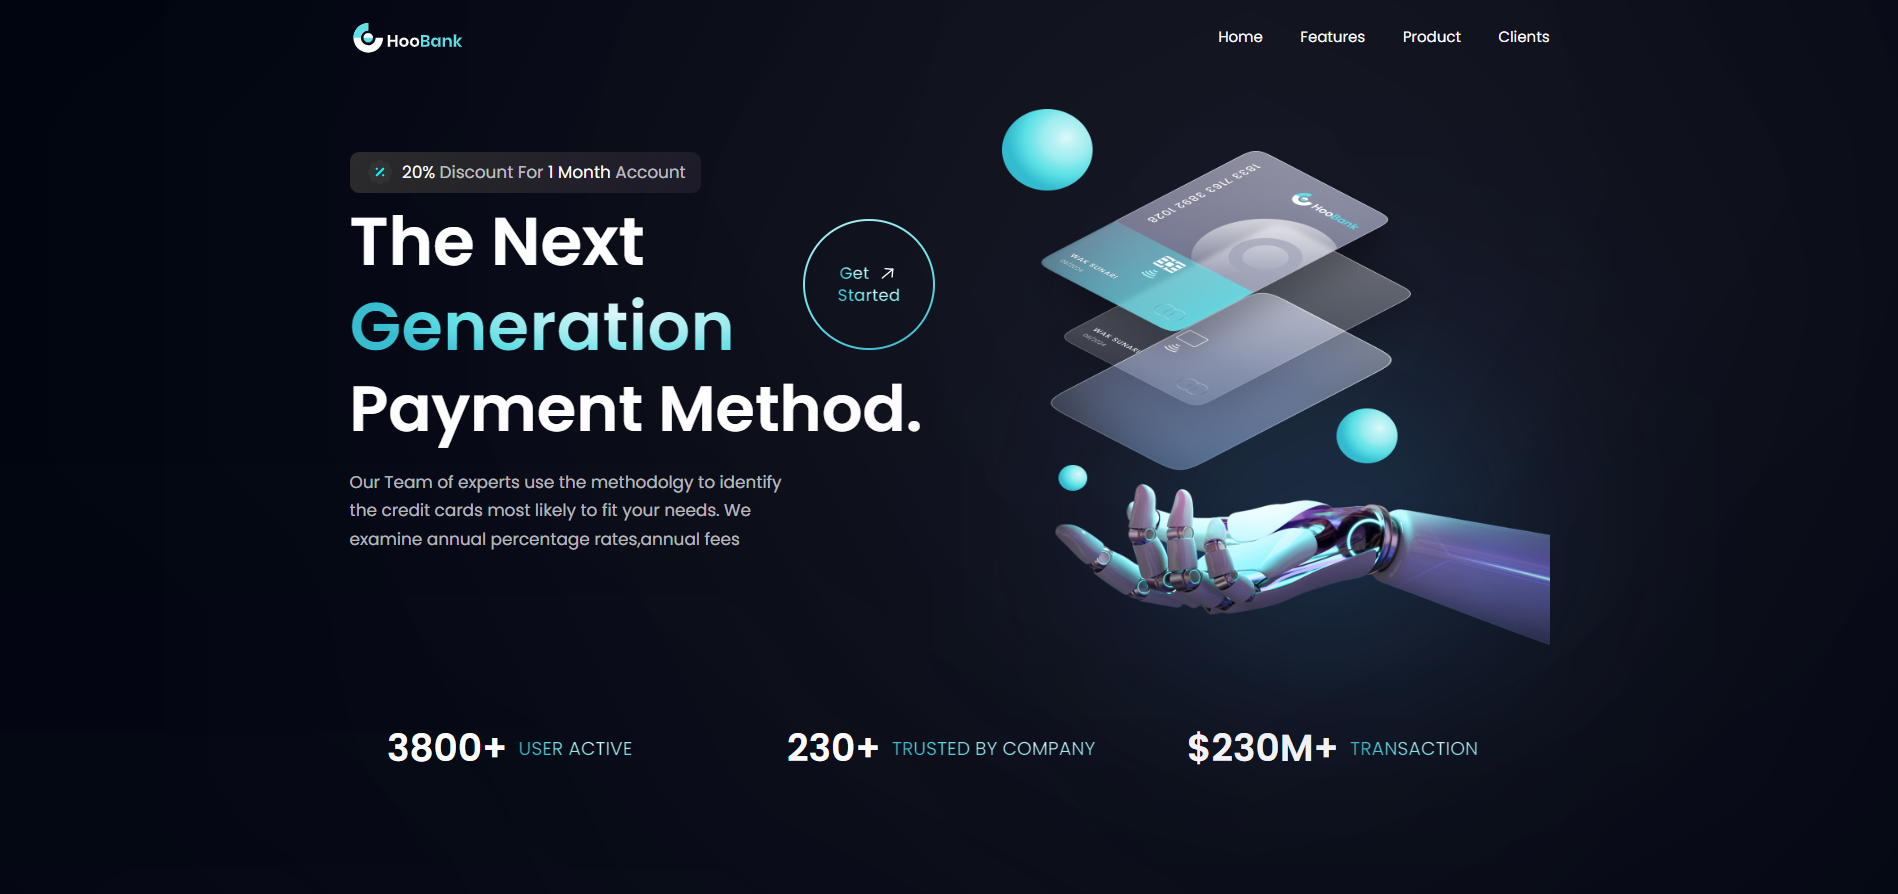
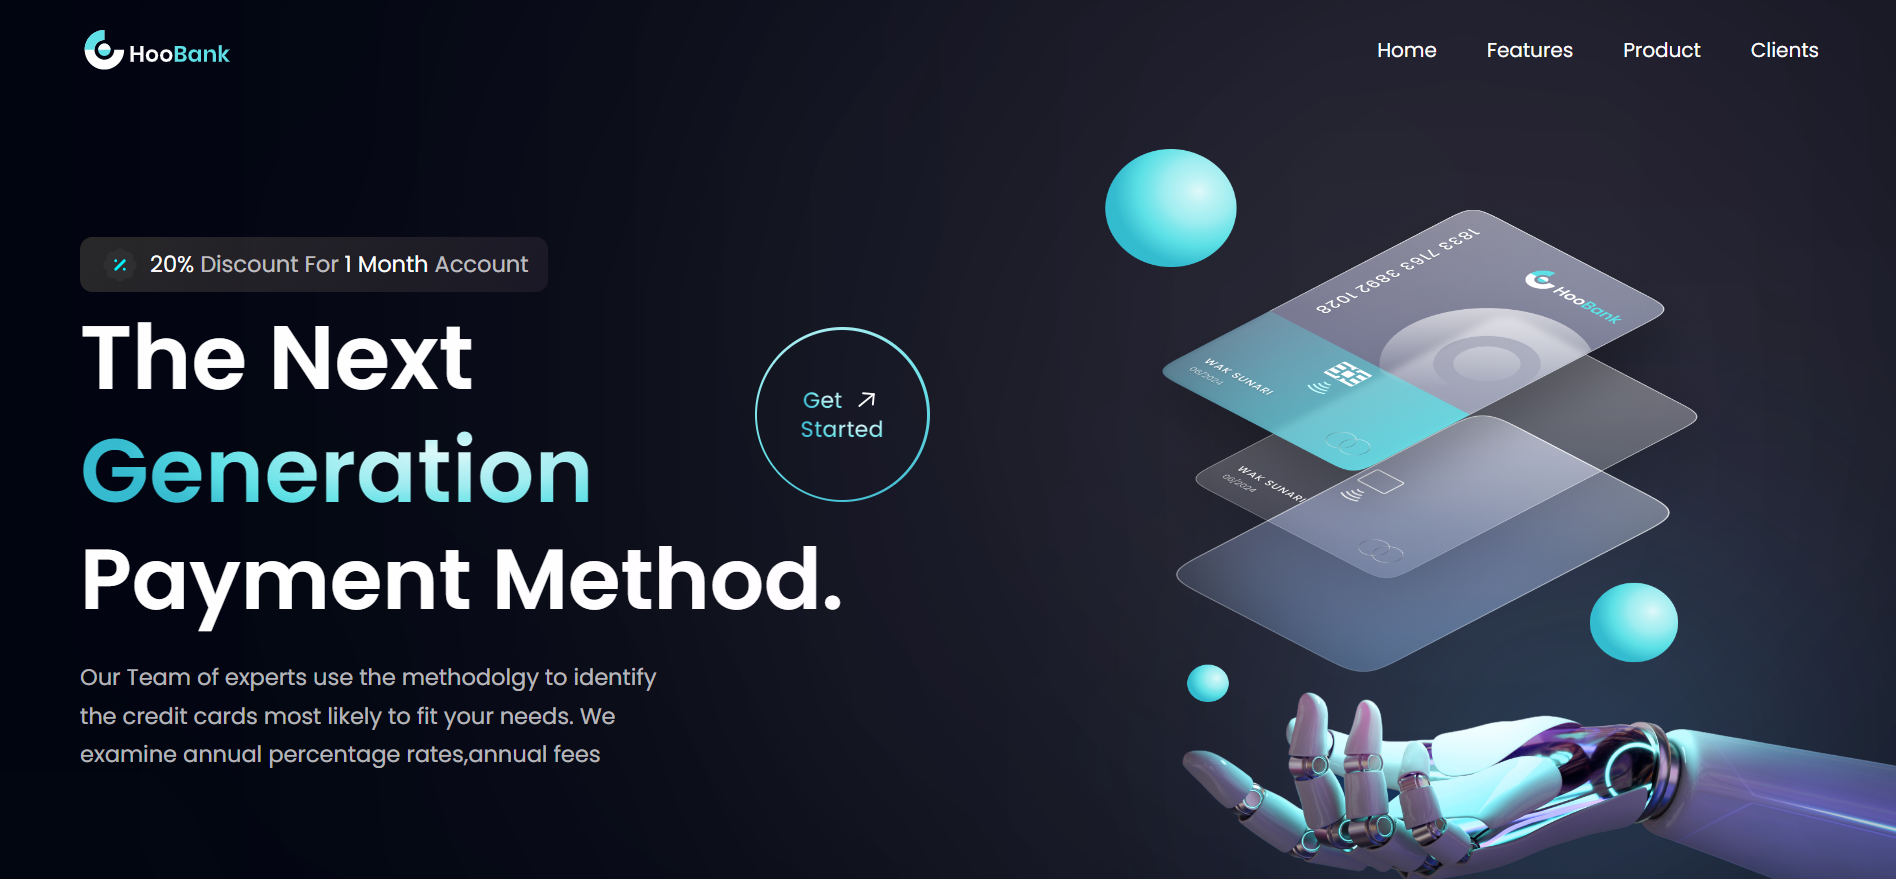
updates

diff --git a/src/components/Navbar.jsx b/src/components/Navbar.jsx
@@ -5,60 +5,72 @@ import { styles } from "../styles";
 import { navLinks } from "../constants";
 import { logo, menu, close } from "../assets";
 import { github } from "../assets";
+import { linked } from "../assets";
 
 const Navbar = () => {
   const [active, setActive] = useState("");
   const [toggle, setToggle] = useState(false);
- 
 
   return (
-    <nav
-      className={`${
-        styles.paddingX
-      } w-full flex items-center pt-5 z-50 `}
-    >
-      <div className='w-full flex justify-between items-center max-w-7xl mx-auto'>
+    <nav className={`${styles.paddingX} w-full flex items-center pt-5 z-50 `}>
+      <div className="w-full flex justify-between items-center max-w-7xl mx-auto">
         <Link
-          to='/'
-          className='flex items-center gap-2'
+          to="/"
+          className="flex items-center gap-2"
           onClick={() => {
             setActive("");
             window.scrollTo(0, 0);
           }}
         >
-          <img src={logo} alt='logo' className='w-9 h-9 object-contain' />
-          <p className='text-white text-[18px] font-bold cursor-pointer flex '>
+          <img src={logo} alt="logo" className="w-9 h-9 object-contain" />
+          <p className="text-white text-[18px] font-bold cursor-pointer flex ">
             Uzair. &nbsp;
-            
           </p>
         </Link>
         <div className="flex flex-row gap-6">
-        <ul className='list-none hidden sm:flex flex-row gap-10'>
-          {navLinks.map((nav) => (
-            <li
-              key={nav.id}
-              className={`${
-                active === nav.title ? "text-white" : "text-secondary"
-              } hover:text-white text-[18px] font-medium cursor-pointer`}
-              onClick={() => setActive(nav.title)}
-            >
-              <a href={`#${nav.id}`}>{nav.title}</a>
-            </li>
-          ))}
-        </ul>
-        <img
-        onClick={() => window.open('https://github.com/uzair-shafi', "_blank")}
-                src={github}
-                alt='source code'
-                className='w-[30px] h-[30px] object-contain cursor-pointer fill-zinc-50'
-              />
+          <ul className="list-none hidden sm:flex flex-row gap-10">
+            {navLinks.map((nav) => (
+              <li
+                key={nav.id}
+                className={`${
+                  active === nav.title ? "text-white" : "text-secondary"
+                } hover:text-white text-[18px] font-medium cursor-pointer`}
+                onClick={() => setActive(nav.title)}
+              >
+                <a href={`#${nav.id}`}>{nav.title}</a>
+              </li>
+            ))}
+          </ul>
+
+          <div className="flex flex-row gap-2 z-1000 ">
+            <img
+              onClick={() =>
+                window.open("https://github.com/uzair-shafi", "_blank")
+              }
+              src={github}
+              alt="source code"
+              className="w-[30px] h-[30px] object-contain cursor-pointer "
+            />
+
+            <img
+              onClick={() =>
+                window.open(
+                  "https://www.linkedin.com/in/uzair-shafi/",
+                  "_blank"
+                )
+              }
+              src={linked}
+              alt="source code"
+              className="w-[26px] h-[26px] object-contain mt-0.5 cursor-pointer  "
+            />
+          </div>
         </div>
 
-        <div className='sm:hidden flex flex-1 justify-end items-center'>
+        <div className="sm:hidden flex flex-1 justify-end items-center">
           <img
             src={toggle ? close : menu}
-            alt='menu'
-            className='w-[28px] h-[28px] object-contain cursor-pointer'
+            alt="menu"
+            className="w-[28px] h-[28px] object-contain cursor-pointer"
             onClick={() => setToggle(!toggle)}
           />
 
@@ -67,7 +79,7 @@ const Navbar = () => {
               !toggle ? "hidden" : "flex"
             } p-6 violet-gradientnav absolute top-20 right-0 mx-4 my-2 min-w-[140px] z-10 rounded-xl`}
           >
-            <ul className='list-none flex justify-end items-start flex-1 flex-col gap-4'>
+            <ul className="list-none flex justify-end items-start flex-1 flex-col gap-4">
               {navLinks.map((nav) => (
                 <li
                   key={nav.id}

diff --git a/src/components/Hero.jsx b/src/components/Hero.jsx
@@ -5,50 +5,50 @@ import { ComputersCanvas } from "./canvas";
 
 const Hero = () => {
   return (
-    <section className={`relative w-full justify-center h-screen mx-auto -mt-4`}>
+    <section
+      className={`relative w-full justify-center h-screen mx-auto -mt-2`}
+    >
       <div
         className={`absolute inset-0 top-[120px]  max-w-7xl mx-auto ${styles.paddingX} flex flex-row items-start gap-5 -mt-2`}
       >
-        <div className='flex flex-col justify-center items-center mt-5 -'>
-          <div className='w-5 h-5 rounded-full bg-[#915EFF]' />
-          <div className='w-1 sm:h-80 h-40 violet-gradient' />
+        <div className="flex flex-col justify-center items-center mt-5 -">
+          <div className="w-4 h-4 rounded-full bg-[#915EFF]" />
+          <div className="w-1 sm:h-80 h-40 violet-gradient" />
         </div>
 
-        <div >
+        <div>
           <h1 className={`${styles.heroHeadText} text-white`}>
-            Hi, I'm <span className='text-[#915EFF]'>Uzair</span>
+            Hi, I'm <span className="text-[#915EFF]">Uzair</span>
           </h1>
-          <p className={`${styles.heroSubText} mt-2 text-white-100`}>
-            I develop Graphics, user <br className='sm:block hidden' />
-            interfaces and web applications
+          <p className={`${styles.heroSubText} -mt-2 text-white-100`}>
+            Elevating digital experiences: crafting
+            <br className="sm:block hidden" />
+            exceptional Full Stack web magic!
           </p>
         </div>
       </div>
-      
+
       <ComputersCanvas />
-      
 
-      <div className='absolute xs:bottom-12 bottom-28 w-full flex justify-center items-center '>
-      <a href='#about'>
-        <div className='w-[30px] h-[55px] rounded-3xl border-2 border-secondary flex justify-center items-start p-2'>
-          <motion.div
-           animate={{
-            y:[0,24,0],
-           }}
-           transition={{
-            duration:1.5,
-            repeat:Infinity,
-            repeatType:"loop",
-
-           }}
-            className='w-2 h-2 rounded-full bg-secondary mb-1'
-          />
-        </div>
-      </a>
-    </div>
-
-</section>
-);
+      <div className="absolute xs:bottom-12 bottom-28 w-full flex justify-center items-center ">
+        <a href="#about">
+          <div className="w-[30px] h-[55px] rounded-3xl border-2 border-secondary flex justify-center items-start p-2">
+            <motion.div
+              animate={{
+                y: [0, 24, 0],
+              }}
+              transition={{
+                duration: 1.5,
+                repeat: Infinity,
+                repeatType: "loop",
+              }}
+              className="w-2 h-2 rounded-full bg-secondary mb-1"
+            />
+          </div>
+        </a>
+      </div>
+    </section>
+  );
 };
 
 export default Hero;

diff --git a/src/components/canvas/Computers.jsx b/src/components/canvas/Computers.jsx
@@ -5,36 +5,36 @@ import { OrbitControls, Preload, useGLTF } from "@react-three/drei";
 import CanvasLoader from "../Loader";
 
 const Computers = ({ isMobile }) => {
-  const computer=useGLTF("./desktop_pc/scene.gltf");
+  const computer = useGLTF("./desktop_pc/scene.gltf");
   return (
     <mesh>
-    <hemisphereLight  intensity={1.65}
-    groundColor="black"/>
+      <hemisphereLight intensity={1.65} groundColor="black" />
 
-    <pointLight intensity={4}/>
+      <pointLight intensity={4} />
 
-    <spotLight
-    position={[-20,50,10]}
-    angle={0.12}
-    penumbra={1}
-    intensity={1.9}
-    castShadows
-    shadow-mapSize={1024} />
+      <spotLight
+        position={[-20, 50, 10]}
+        angle={0.12}
+        penumbra={1}
+        intensity={1.9}
+        castShadows
+        shadow-mapSize={1024}
+      />
 
-    <primitive object={computer.scene}
-    scale={isMobile ? 0.6 : 0.75}
-    position={isMobile ? [-5, -3, -2.2] : [-1, -3.25, -1.5]}
-    rotation={[-0.01,-0.9,-0.1]}/>
+      <primitive
+        object={computer.scene}
+        scale={isMobile ? 0.6 : 0.75}
+        position={isMobile ? [-5, -3, -2.2] : [-1, -3.25, -1.5]}
+        rotation={[-0.01, -0.9, -0.1]}
+      />
     </mesh>
-  )
-}
+  );
+};
 
-const ComputersCanvas=()=>{
-
+const ComputersCanvas = () => {
   const [isMobile, setIsMobile] = useState(false);
 
   useEffect(() => {
-   
     const mediaQuery = window.matchMedia("(max-width: 500px)");
 
     setIsMobile(mediaQuery.matches);
@@ -49,27 +49,28 @@ const ComputersCanvas=()=>{
       mediaQuery.removeEventListener("change", handleMediaQueryChange);
     };
   }, []);
-  return(
-    <Canvas frameloop="demand"
-    shadows
-    camera={{position:[16,
-      22,5], fov:20}}
-    gl={{preserveDrawingBuffer:true}}
+  return (
+    <Canvas
+      frameloop="demand"
+      shadows
+      camera={{ position: [16, 22, 5], fov: 20 }}
+      gl={{ preserveDrawingBuffer: true }}
     >
+      <Suspense fallback={<CanvasLoader />}>
+        <OrbitControls
+          enableZoom={false}
+          autoRotate
+          autoRotateSpeed={18}
+          maxPolarAngle={Math.PI / 2}
+          minPolarAngle={Math.PI / 2}
+        />
 
-    <Suspense fallback={<CanvasLoader />}>
-    <OrbitControls enableZoom={false}
-    maxPolarAngle={Math.PI/2}
-    minPolarAngle={Math.PI/2} />
+        <Computers isMobile={isMobile} />
+      </Suspense>
 
-    <Computers isMobile={isMobile} />
-    </Suspense>
-
-    <Preload all />
-
-    
+      <Preload all />
     </Canvas>
-  )
-}
+  );
+};
 
-export default ComputersCanvas
+export default ComputersCanvas;

diff --git a/src/styles.js b/src/styles.js
@@ -1,23 +1,22 @@
 const styles = {
-    paddingX: "sm:px-16 px-6",
-    paddingY: "sm:py-16 py-6",
-    padding: "sm:px-16 px-6 sm:py-16 py-10",
-  
-    heroHeadText:
-      "font-black text-white lg:text-[70px] sm:text-[60px] xs:text-[50px] text-[40px] lg:leading-[98px] mt-2",
-    heroSubText:
-      "text-[#dfd9ff] font-medium lg:text-[25px] sm:text-[26px] xs:text-[20px] text-[16px] lg:leading-[30px]",
-  
-    sectionHeadText:
-      "text-white font-black md:text-[60px] sm:text-[50px] xs:text-[40px] text-[30px]",
-    sectionSubText:
-      "sm:text-[18px] text-[14px] text-secondary uppercase tracking-wider",
+  paddingX: "sm:px-16 px-6",
+  paddingY: "sm:py-16 py-6",
+  padding: "sm:px-16 px-6 sm:py-16 py-10",
 
+  heroHeadText:
+    "font-black text-white lg:text-[60px] sm:text-[60px] xs:text-[50px] text-[40px] lg:leading-[98px] mt-2",
+  heroSubText:
+    "text-[#dfd9ff] font-medium lg:text-[18px] sm:text-[26px] xs:text-[20px] text-[16px] lg:leading-[26px]",
 
-      contactsectionHeadText:
-      "text-white font-black md:text-[40px] sm:text-[50px] xs:text-[40px] text-[30px]",
-      contactsectionSubText:
-      "sm:text-[12px] text-[14px] text-secondary uppercase tracking-wider",
-  };
-  
-  export { styles };
+  sectionHeadText:
+    "text-white font-black md:text-[60px] sm:text-[50px] xs:text-[40px] text-[30px]",
+  sectionSubText:
+    "sm:text-[18px] text-[14px] text-secondary uppercase tracking-wider",
+
+  contactsectionHeadText:
+    "text-white font-black md:text-[40px] sm:text-[50px] xs:text-[40px] text-[30px]",
+  contactsectionSubText:
+    "sm:text-[12px] text-[14px] text-secondary uppercase tracking-wider",
+};
+
+export { styles };

diff --git a/src/assets/index.js b/src/assets/index.js
@@ -4,6 +4,7 @@ import creator from "./creator.png";
 import mobile from "./mobile.png";
 import web from "./web.png";
 import github from "./github.png";
+import linked from "./linked.png";
 import menu from "./menu.svg";
 import close from "./close.svg";
 
@@ -72,5 +73,6 @@ export {
   orn,
   ana,
   krypt,
+  linked,
   fm,
 };

diff --git a/src/components/Works.jsx b/src/components/Works.jsx
@@ -26,7 +26,7 @@ const ProjectCard = ({
         }}
         className="bg-tertiary p-5 rounded-2xl relative sm:w-[360px] w-full"
       >
-        <div className=" w-full h-[200px]">
+        <div className=" w-full h-full">
           <img
             src={image}
             alt="project_image"
